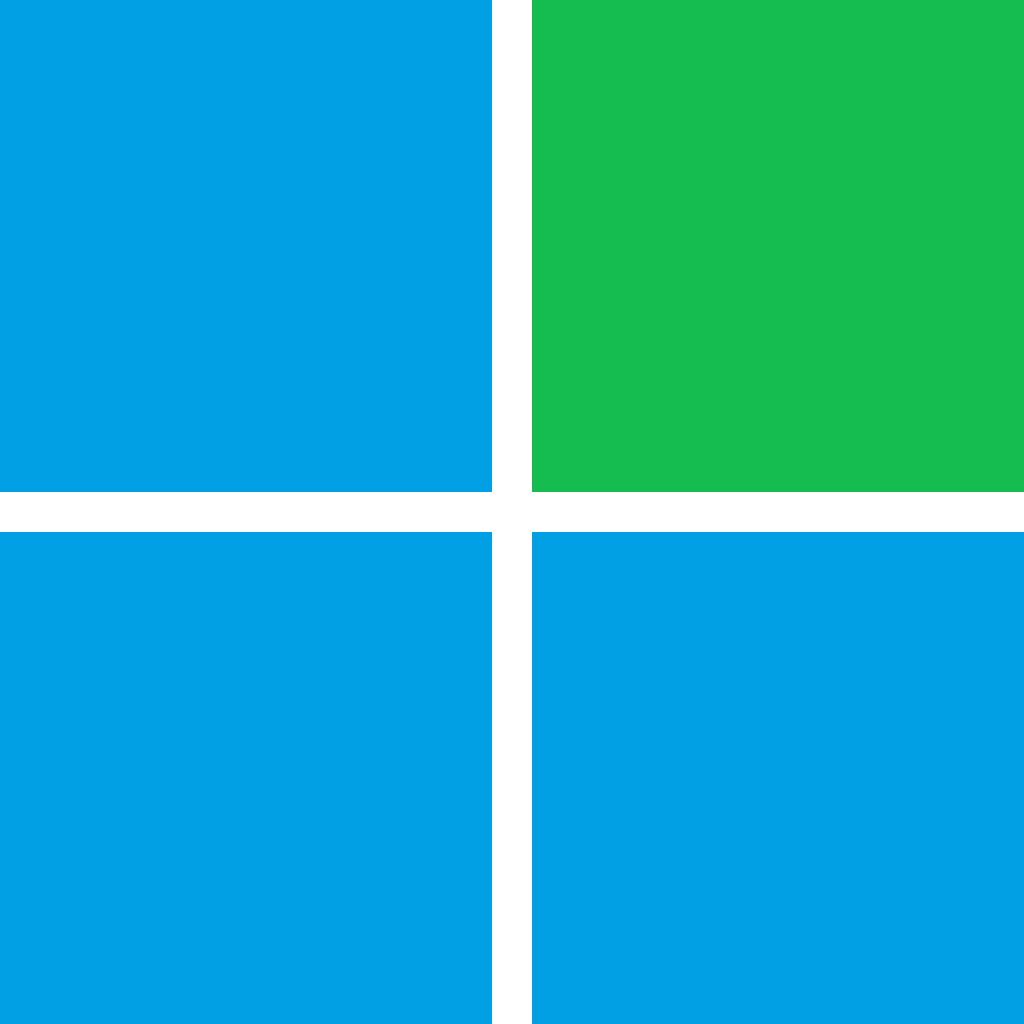
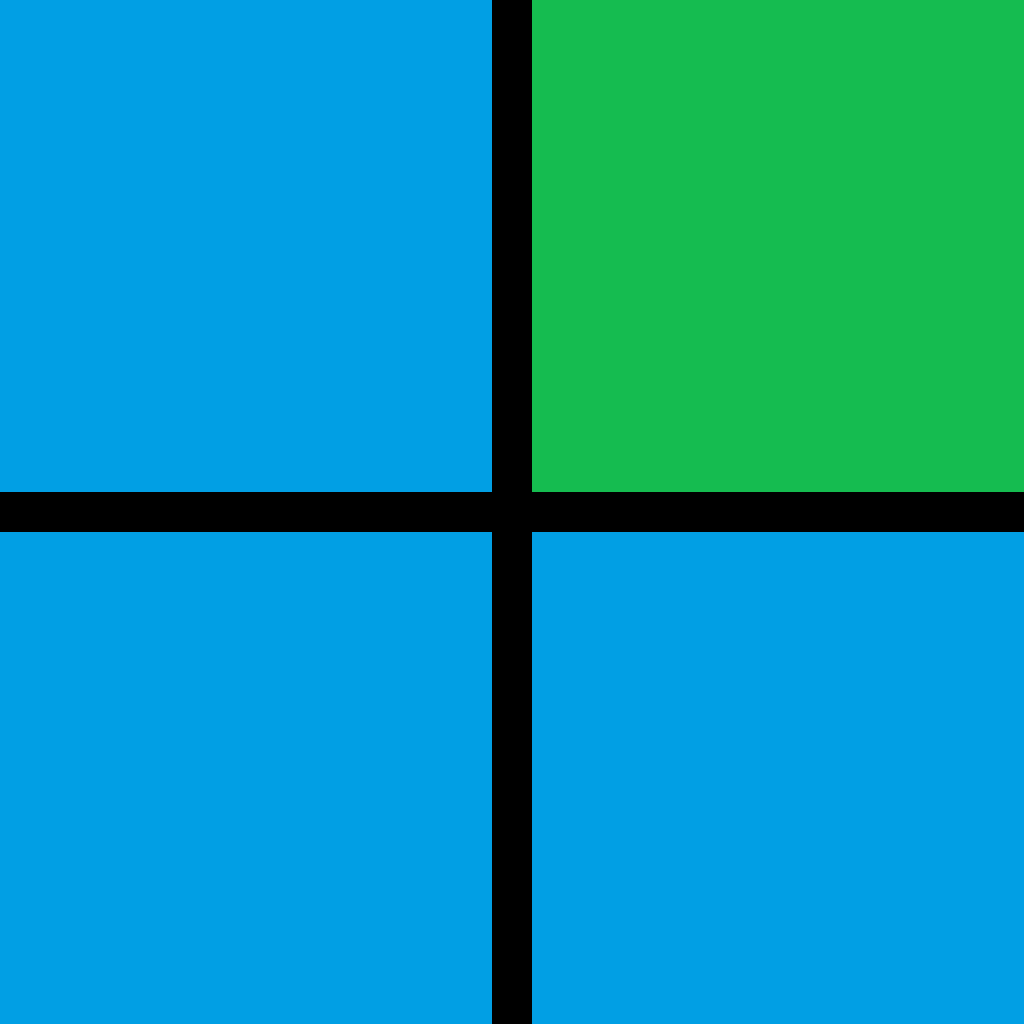
app store image

Changed region(s): [[0.0, 0.0, 1.0, 1.0]]

diff --git a/utilities/image_generator/image_generator.go b/utilities/image_generator/image_generator.go
@@ -1,4 +1,4 @@
-package imagegenerator
+package image_generator
 
 import (
 	"fmt"
@@ -42,10 +42,14 @@ func drawGazerIcon(im *image.RGBA) {
 	fillRect(im, col1, o, o, s, s)
 }
 
-func genPng(path string, w, h int) {
+func genPng(path string, w, h int, alpha bool) {
 	fmt.Println("generating png", path)
 	var im *image.RGBA
 	im = image.NewRGBA(image.Rect(0, 0, w, h))
+	backColor := color.RGBA{R: 0, G: 0, B: 0, A: 255}
+	if !alpha {
+		fillRect(im, backColor, 0, 0, w, h)
+	}
 	drawGazerIcon(im)
 	out, err := os.Create(path)
 	if err != nil {
@@ -55,28 +59,28 @@ func genPng(path string, w, h int) {
 }
 
 func genIOSIcons(path string) {
-	genPng(path+"Icon-App-20x20@1x.png", 20, 20)
-	genPng(path+"Icon-App-20x20@2x.png", 40, 40)
-	genPng(path+"Icon-App-20x20@3x.png", 60, 60)
+	genPng(path+"Icon-App-20x20@1x.png", 20, 20, true)
+	genPng(path+"Icon-App-20x20@2x.png", 40, 40, true)
+	genPng(path+"Icon-App-20x20@3x.png", 60, 60, true)
 
-	genPng(path+"Icon-App-29x29@1x.png", 29, 29)
-	genPng(path+"Icon-App-29x29@2x.png", 58, 58)
-	genPng(path+"Icon-App-29x29@3x.png", 87, 87)
+	genPng(path+"Icon-App-29x29@1x.png", 29, 29, true)
+	genPng(path+"Icon-App-29x29@2x.png", 58, 58, true)
+	genPng(path+"Icon-App-29x29@3x.png", 87, 87, true)
 
-	genPng(path+"Icon-App-40x40@1x.png", 40, 40)
-	genPng(path+"Icon-App-40x40@2x.png", 80, 80)
-	genPng(path+"Icon-App-40x40@3x.png", 120, 120)
+	genPng(path+"Icon-App-40x40@1x.png", 40, 40, true)
+	genPng(path+"Icon-App-40x40@2x.png", 80, 80, true)
+	genPng(path+"Icon-App-40x40@3x.png", 120, 120, true)
 
-	//genPng(path+"Icon-App-60x60@1x.png", 60, 60)
-	genPng(path+"Icon-App-60x60@2x.png", 120, 120)
-	genPng(path+"Icon-App-60x60@3x.png", 180, 180)
+	//genPng(path+"Icon-App-60x60@1x.png", 60, 60, true)
+	genPng(path+"Icon-App-60x60@2x.png", 120, 120, true)
+	genPng(path+"Icon-App-60x60@3x.png", 180, 180, true)
 
-	genPng(path+"Icon-App-76x76@1x.png", 76, 76)
-	genPng(path+"Icon-App-76x76@2x.png", 152, 152)
-	//genPng(path+"Icon-App-60x60@3x.png", 180, 180)
+	genPng(path+"Icon-App-76x76@1x.png", 76, 76, true)
+	genPng(path+"Icon-App-76x76@2x.png", 152, 152, true)
+	//genPng(path+"Icon-App-60x60@3x.png", 180, 180, true)
 
-	genPng(path+"Icon-App-83.5x83.5@2x.png", 167, 167)
-	genPng(path+"Icon-App-1024x1024@1x.png", 1024, 1024)
+	genPng(path+"Icon-App-83.5x83.5@2x.png", 167, 167, true)
+	genPng(path+"Icon-App-1024x1024@1x.png", 1024, 1024, false)
 }
 
 func Generate() {
